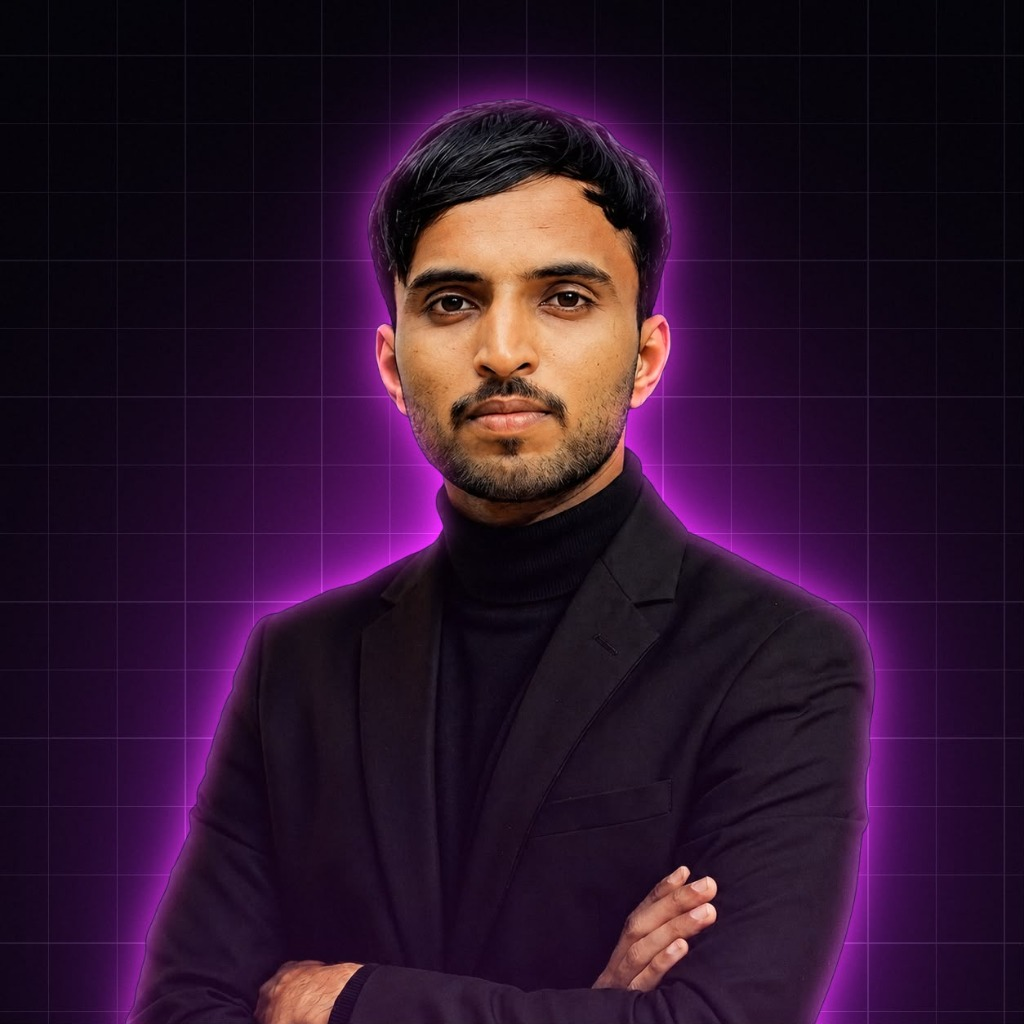
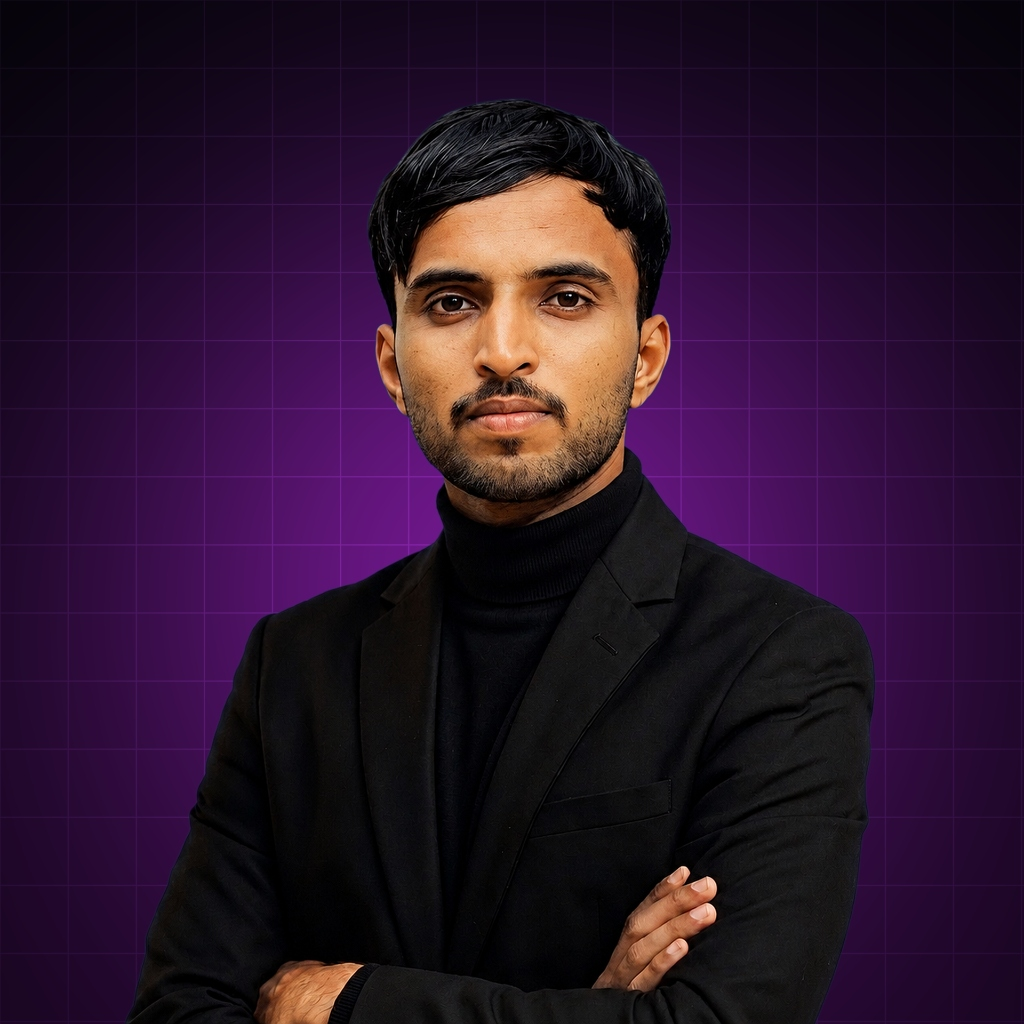
Update Meet the Masterminds section portraits: Irfan, Shafeeq, Shaiban with official high-resolution studio photos

diff --git a/index (1).html b/index (1).html
@@ -907,6 +907,7 @@
             height: 100%;
             border-radius: 50%;
             object-fit: cover;
+            object-position: center top;
             display: block;
         }
         .team-card h3 {
@@ -2811,8 +2812,18 @@
                 </div>
 
                 <div class="team-grid">
-                    <!-- 1. Shafeeq Sullia (Chief Technology Officer) -->
+                    <!-- 1. Irfan Vtl (Chief Executive Officer) - First Uploaded Image -->
                     <div class="team-card" data-aos="fade-up" data-aos-delay="100">
+                        <div class="team-img-wrap">
+                            <img src="./irfan-vtl.png" alt="Irfan Vtl - Chief Executive Officer" class="team-img">
+                        </div>
+                        <h3>Irfan Vtl</h3>
+                        <span class="team-role ceo"><i class="fas fa-chart-line"></i> Chief Executive Officer</span>
+                        <p class="team-desc">Driving global media operations, video creative execution, omnichannel ad scaling, and agency partnerships.</p>
+                    </div>
+
+                    <!-- 2. Shafeeq Sullia (Chief Technology Officer) - Second Uploaded Image -->
+                    <div class="team-card" data-aos="fade-up" data-aos-delay="200">
                         <div class="team-img-wrap">
                             <img src="./shafeeq-sullia.png" alt="Shafeeq Sullia - Chief Technology Officer" class="team-img">
                         </div>
@@ -2821,24 +2832,14 @@
                         <p class="team-desc">Architecting robust full-stack web platforms, high-speed software infrastructure, and technical execution pipelines.</p>
                     </div>
 
-                    <!-- 2. Shaiban Puttur (Founder & Visionary) -->
-                    <div class="team-card" data-aos="fade-up" data-aos-delay="200">
+                    <!-- 3. Shaiban Puttur (Founder & Visionary) - Third Uploaded Image -->
+                    <div class="team-card" data-aos="fade-up" data-aos-delay="300">
                         <div class="team-img-wrap">
                             <img src="./shaiban-puttur-official.png" alt="Shaiban Puttur - Founder & Visionary" class="team-img">
                         </div>
                         <h3>Shaiban Puttur</h3>
                         <span class="team-role founder"><i class="fas fa-crown"></i> Founder & Visionary</span>
                         <p class="team-desc">Steering the global strategic vision, creative direction, and high-level client scaling frameworks at Kyrosh.</p>
-                    </div>
-
-                    <!-- 3. Irfan Vtl (Chief Executive Officer) -->
-                    <div class="team-card" data-aos="fade-up" data-aos-delay="300">
-                        <div class="team-img-wrap">
-                            <img src="./irfan-vtl.png" alt="Irfan Vtl - Chief Executive Officer" class="team-img">
-                        </div>
-                        <h3>Irfan Vtl</h3>
-                        <span class="team-role ceo"><i class="fas fa-chart-line"></i> Chief Executive Officer</span>
-                        <p class="team-desc">Driving global media operations, video creative execution, omnichannel ad scaling, and agency partnerships.</p>
                     </div>
                 </div>
             </div>

diff --git a/index.html b/index.html
@@ -907,6 +907,7 @@
             height: 100%;
             border-radius: 50%;
             object-fit: cover;
+            object-position: center top;
             display: block;
         }
         .team-card h3 {
@@ -2811,8 +2812,18 @@
                 </div>
 
                 <div class="team-grid">
-                    <!-- 1. Shafeeq Sullia (Chief Technology Officer) -->
+                    <!-- 1. Irfan Vtl (Chief Executive Officer) - First Uploaded Image -->
                     <div class="team-card" data-aos="fade-up" data-aos-delay="100">
+                        <div class="team-img-wrap">
+                            <img src="./irfan-vtl.png" alt="Irfan Vtl - Chief Executive Officer" class="team-img">
+                        </div>
+                        <h3>Irfan Vtl</h3>
+                        <span class="team-role ceo"><i class="fas fa-chart-line"></i> Chief Executive Officer</span>
+                        <p class="team-desc">Driving global media operations, video creative execution, omnichannel ad scaling, and agency partnerships.</p>
+                    </div>
+
+                    <!-- 2. Shafeeq Sullia (Chief Technology Officer) - Second Uploaded Image -->
+                    <div class="team-card" data-aos="fade-up" data-aos-delay="200">
                         <div class="team-img-wrap">
                             <img src="./shafeeq-sullia.png" alt="Shafeeq Sullia - Chief Technology Officer" class="team-img">
                         </div>
@@ -2821,24 +2832,14 @@
                         <p class="team-desc">Architecting robust full-stack web platforms, high-speed software infrastructure, and technical execution pipelines.</p>
                     </div>
 
-                    <!-- 2. Shaiban Puttur (Founder & Visionary) -->
-                    <div class="team-card" data-aos="fade-up" data-aos-delay="200">
+                    <!-- 3. Shaiban Puttur (Founder & Visionary) - Third Uploaded Image -->
+                    <div class="team-card" data-aos="fade-up" data-aos-delay="300">
                         <div class="team-img-wrap">
                             <img src="./shaiban-puttur-official.png" alt="Shaiban Puttur - Founder & Visionary" class="team-img">
                         </div>
                         <h3>Shaiban Puttur</h3>
                         <span class="team-role founder"><i class="fas fa-crown"></i> Founder & Visionary</span>
                         <p class="team-desc">Steering the global strategic vision, creative direction, and high-level client scaling frameworks at Kyrosh.</p>
-                    </div>
-
-                    <!-- 3. Irfan Vtl (Chief Executive Officer) -->
-                    <div class="team-card" data-aos="fade-up" data-aos-delay="300">
-                        <div class="team-img-wrap">
-                            <img src="./irfan-vtl.png" alt="Irfan Vtl - Chief Executive Officer" class="team-img">
-                        </div>
-                        <h3>Irfan Vtl</h3>
-                        <span class="team-role ceo"><i class="fas fa-chart-line"></i> Chief Executive Officer</span>
-                        <p class="team-desc">Driving global media operations, video creative execution, omnichannel ad scaling, and agency partnerships.</p>
                     </div>
                 </div>
             </div>
